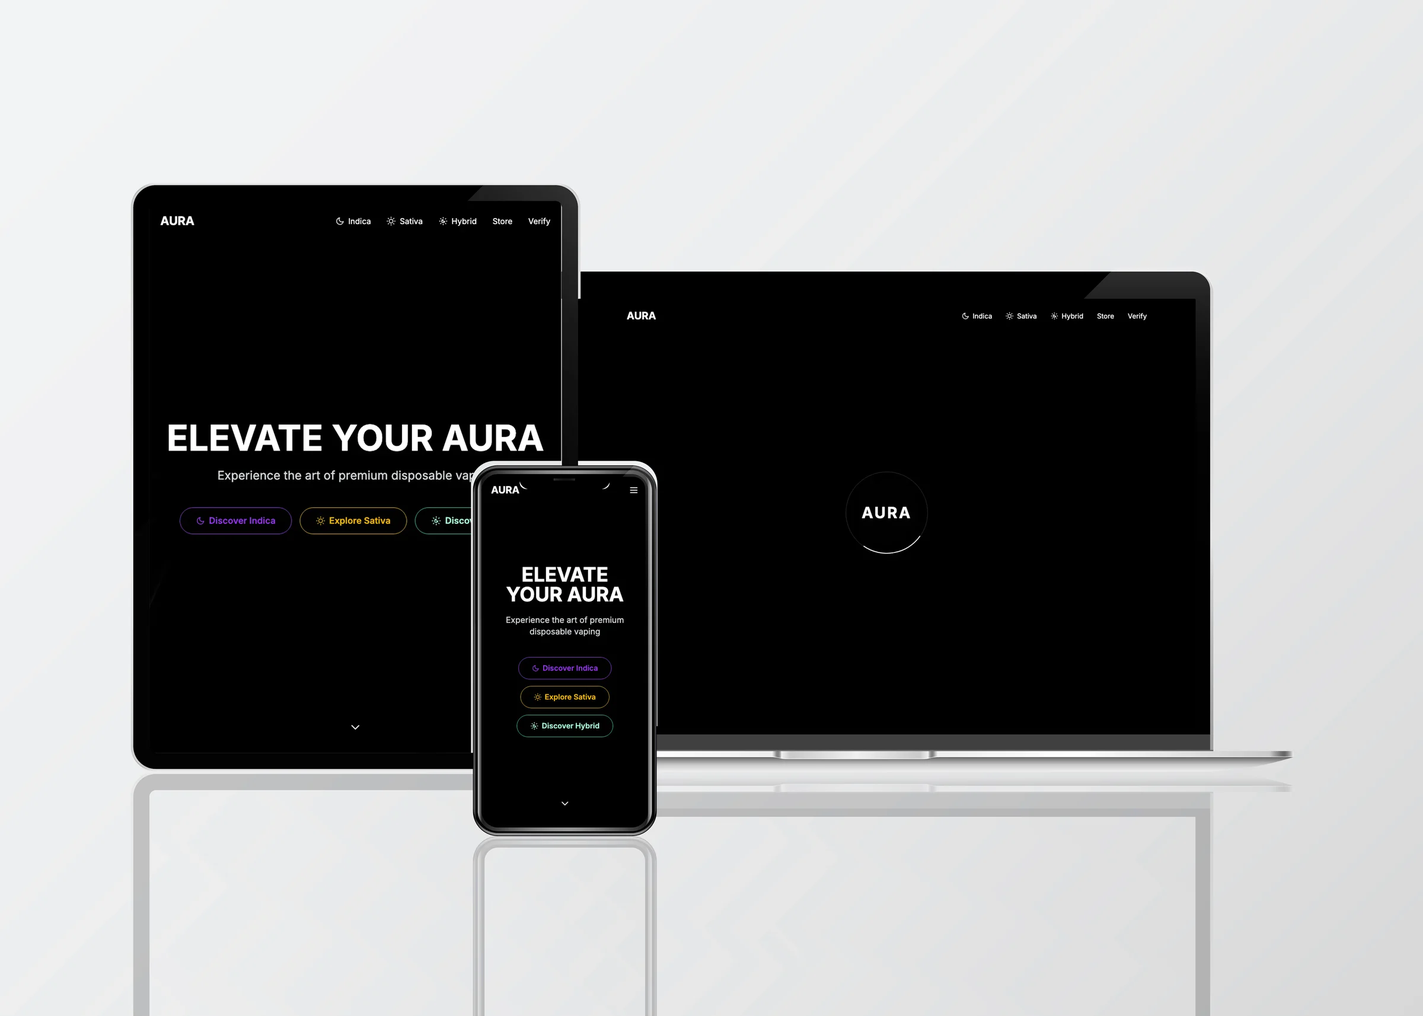
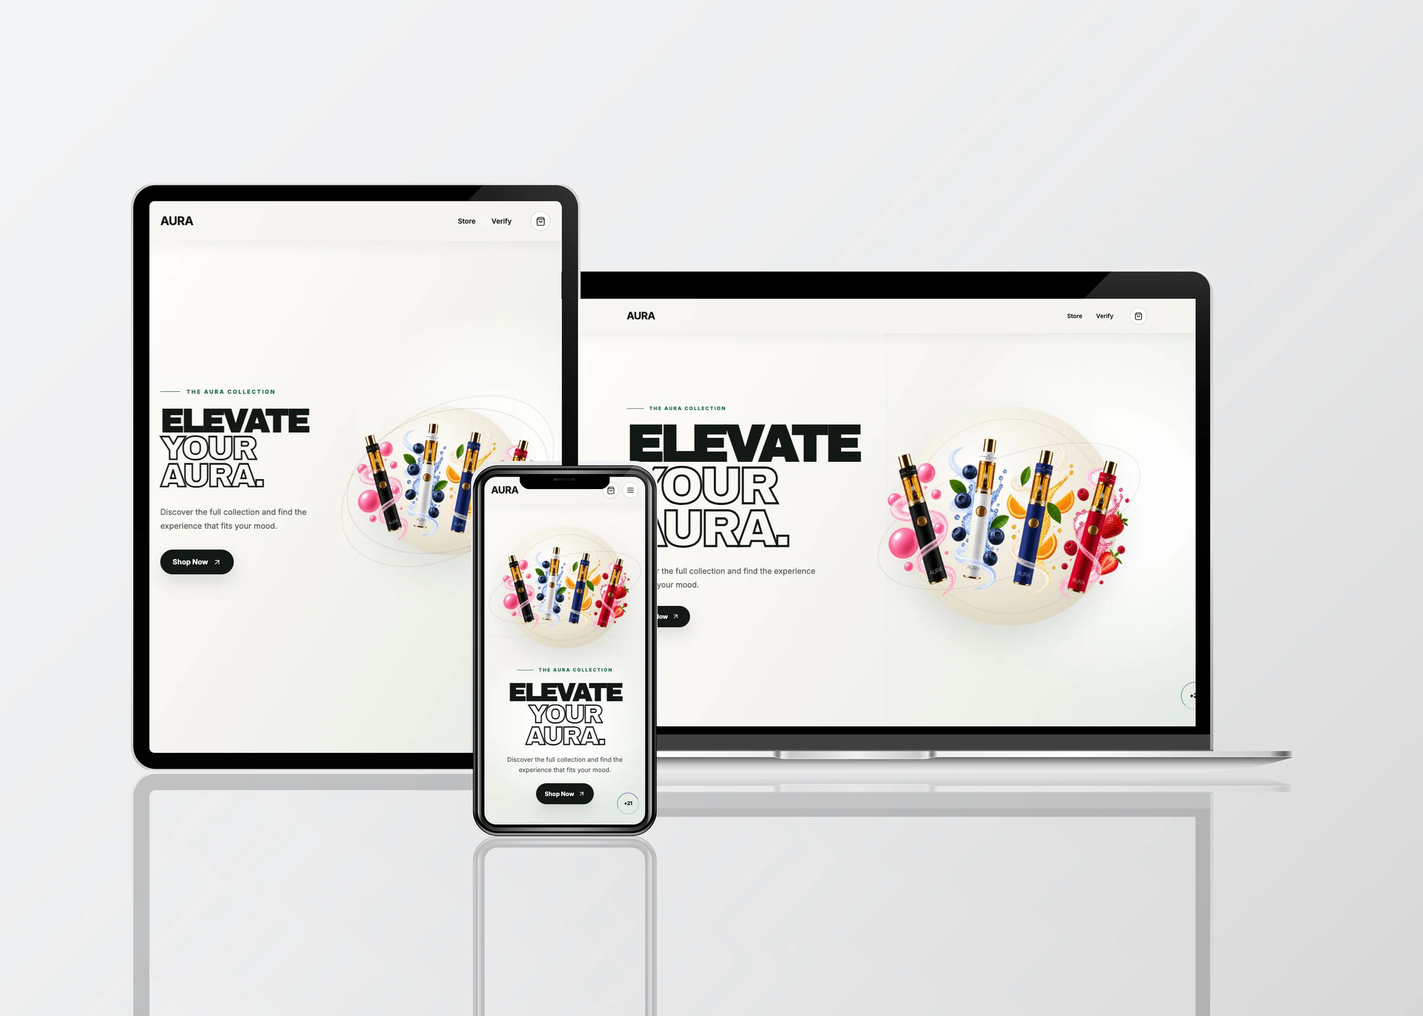
feat: refresh portfolio projects and Aura imagery

diff --git a/src/content/projects.ts b/src/content/projects.ts
@@ -29,6 +29,7 @@ export type Project = {
   domain: string;
   available: boolean;
   featured: boolean;
+  status?: "demo" | "preview";
   images?: ProjectImages;
   technologies: string[];
   copy: Record<Locale, LocalizedProjectCopy>;
@@ -176,6 +177,153 @@ export const projects: Project[] = [
           "Public discovery paths for search, care packages and patient support",
         ],
         sourceNote: "This project is documented and maintained in Future Media Services project records.",
+      },
+    },
+  },
+  {
+    slug: "ermetes",
+    url: "https://ermetes-design-review-production.up.railway.app",
+    domain: "ermetes-design-review-production.up.railway.app",
+    available: true,
+    featured: true,
+    status: "demo",
+    images: {
+      desktop: "/projects/ermetes-desktop.webp",
+      tablet: "/projects/ermetes-tablet.webp",
+      mobile: "/projects/ermetes-mobile.webp",
+      mockup: "/projects/mockups/ermetes-mockup.webp",
+    },
+    technologies: ["TypeScript", "Responsive UI", "CMS", "Service calendar"],
+    copy: {
+      fa: {
+        title: "Ermetes",
+        descriptor: "وبسایت خدماتی و پنلهای مدیریت عملیات",
+        summary: "طراحی و توسعه تجربه وب Ermetes برای معرفی خدمات، دریافت درخواست و مدیریت کارها؛ همراه با تقویم خدمات، پنل تعاونی و مدیریت پرسنل. نسخه قابلمشاهده، دموی بازبینی پروژه است.",
+        role: "طراحی تجربه کاربر و توسعه سایت و پنلها",
+        imageAlt: "سه نمای واکنشگرا از دموی وبسایت خدماتی Ermetes",
+        challenge: "معرفی خدمات و مسیر درخواست مشتری باید به تجربهای روشن تبدیل میشد، در حالی که تیم داخلی به ابزارهای منسجم برای کارها، تقویم و اطلاعات پرسنل نیاز داشت.",
+        approach: "سایت عمومی با مسیرهای معرفی خدمات و درخواست طراحی شد و پنلهای خدمات و تعاونی در همان پروژه توسعه یافتند. نسخه بازبینی روی یک دامنه دمو منتشر شده تا پیش از انتشار سایت اصلی بررسی شود.",
+        highlights: [
+          "وبسایت واکنشگرا برای معرفی خدمات و محدوده فعالیت",
+          "فرمهای دریافت درخواست و مسیر ارتباط با مجموعه",
+          "پنل مدیریت خدمات، کارها و تقویم",
+          "پنل تعاونی، پرسنل و مدارک، همراه با محتوای قابلویرایش CMS",
+        ],
+        sourceNote: "این پروژه با تأیید مالک در رکورد Future Media Services قرار گرفته است. تصاویر از دموی عمومی بازبینی ثبت شدهاند؛ این نسخه به معنی انتشار سایت اصلی یا پایان تمام اتصالها نیست.",
+      },
+      en: {
+        title: "Ermetes",
+        descriptor: "A service website and operations dashboards",
+        summary: "A web experience for presenting Ermetes services, receiving enquiries and managing work, with a service calendar and cooperative and personnel dashboards. The linked version is the project's review demo.",
+        role: "User experience design, website and dashboard development",
+        imageAlt: "Three responsive views of the Ermetes service website review demo",
+        challenge: "Service information and customer enquiries needed a clear public experience, while the internal team needed consistent tools for jobs, scheduling and personnel information.",
+        approach: "The public website brings together services and enquiry paths, with separate service and cooperative dashboards developed within the project. An independent review deployment supports feedback before the main website is published.",
+        highlights: [
+          "Responsive service presentation and coverage information",
+          "Enquiry forms and direct contact paths",
+          "Services, jobs and calendar management dashboard",
+          "Cooperative, personnel and document dashboard with editable CMS content",
+        ],
+        sourceNote: "This project is included in Future Media Services records with owner approval. Captures show the public review demo; this is not a claim that the main website or every integration has launched.",
+      },
+    },
+  },
+  {
+    slug: "nafis-teb",
+    url: "https://nafis-teb.ir",
+    domain: "nafis-teb.ir",
+    available: true,
+    featured: true,
+    status: "preview",
+    images: {
+      desktop: "/projects/nafis-teb-desktop.webp",
+      tablet: "/projects/nafis-teb-tablet.webp",
+      mobile: "/projects/nafis-teb-mobile.webp",
+      mockup: "/projects/mockups/nafis-teb-mockup.webp",
+    },
+    technologies: ["Next.js", "TypeScript", "PostgreSQL", "Drizzle", "ZarinPal"],
+    copy: {
+      fa: {
+        title: "نفیسطب",
+        descriptor: "فروشگاه فارسی تجهیزات و لوازم پزشکی",
+        summary: "طراحی و توسعه فروشگاه نفیسطب با کاتالوگ تجهیزات پزشکی، جستوجو و دستهبندی، سبد خرید و زیرساخت مدیریت محصول، سفارش و اتصال پرداخت.",
+        role: "طراحی و توسعه فروشگاه و زیرساخت مدیریت",
+        imageAlt: "سه نمای واکنشگرای فروشگاه فارسی تجهیزات پزشکی نفیسطب",
+        challenge: "خریدار باید بتواند تجهیزات پزشکی را در یک تجربه فارسی و قابلفهم پیدا و مقایسه کند؛ قیمت، موجودی و اطلاعات سفارش نیز باید در سمت سرور مدیریت شوند.",
+        approach: "فرانتاند راستبهچپ با Next.js ساخته شد و دادههای محصول و سفارش به PostgreSQL و Drizzle متصل شدند. مسیر خرید، مدیریت فروشگاه و لایه SEO فنی در یک ساختار مشترک توسعه یافتند.",
+        highlights: [
+          "کاتالوگ فارسی با جستوجو، دستهبندی و صفحات محصول",
+          "سبد خرید ماندگار و اعتبارسنجی قیمت و موجودی در سرور",
+          "زیرساخت مدیریت محصولات، سفارشها و اتصال زرینپال",
+          "طراحی واکنشگرا و داده ساختاریافته برای محصولات و کسبوکار",
+        ],
+        sourceNote: "این پروژه با تأیید مالک در رکورد Future Media Services قرار گرفته است. تصاویر از پیشنمایش محلی کد فروشگاه با دادههای نمونه ثبت شدهاند؛ قیمت و موجودی داخل تصاویر واقعی نیستند. دسترسی HTTPS به سایت هنگام ثبت تصاویر تأیید نشد.",
+      },
+      en: {
+        title: "Nafis Teb",
+        descriptor: "A Persian medical equipment storefront",
+        summary: "Design and development of the Nafis Teb storefront, with a medical equipment catalogue, search and categories, a persistent cart and infrastructure for product, order and payment management.",
+        role: "Storefront design, development and management infrastructure",
+        imageAlt: "Three responsive views of the Persian Nafis Teb medical equipment storefront",
+        challenge: "Customers needed a clear Persian experience for finding and comparing medical equipment, with product prices, stock and order information managed on the server.",
+        approach: "A right-to-left Next.js frontend connects product and order data to PostgreSQL through Drizzle. The purchase experience, management tools and technical SEO foundation were developed together.",
+        highlights: [
+          "Persian catalogue with search, categories and product pages",
+          "Persistent cart with server-side price and stock validation",
+          "Product and order management infrastructure with ZarinPal integration",
+          "Responsive design and product and business structured data",
+        ],
+        sourceNote: "This project is included in Future Media Services records with owner approval. Captures show a local preview of the storefront code with sample data, not actual prices or stock. HTTPS access to the public website could not be verified when the images were captured.",
+      },
+    },
+  },
+  {
+    slug: "karats-diamond",
+    url: "https://karatsdiamond.shop",
+    domain: "karatsdiamond.shop",
+    available: true,
+    featured: true,
+    status: "demo",
+    images: {
+      desktop: "/projects/karats-diamond-desktop.webp",
+      tablet: "/projects/karats-diamond-tablet.webp",
+      mobile: "/projects/karats-diamond-mobile.webp",
+      mockup: "/projects/mockups/karats-diamond-mockup.webp",
+    },
+    technologies: ["Next.js", "TypeScript", "Supabase", "Cloudflare Workers"],
+    copy: {
+      fa: {
+        title: "Karats Diamond",
+        descriptor: "فروشگاه مینیمال جواهرات و مدیریت کاتالوگ",
+        summary: "یک تجربه مینیمال برای معرفی جواهرات، بررسی مشخصات و انتخاب گزینههای محصول، همراه با پنل مدیریت کاتالوگ مبتنی بر Supabase. فروشگاه عمومی فعلاً از کاتالوگ دمو استفاده میکند.",
+        role: "طراحی و توسعه فروشگاه و پنل مدیریت محصول",
+        imageAlt: "سه نمای واکنشگرا از فروشگاه جواهرات Karats Diamond",
+        challenge: "نمایش جواهرات باید ساده و دقیق میبود و انتخاب اندازه و مشخصات را روشن میکرد؛ در کنار آن، مدیریت محصول به ذخیرهسازی واقعی و عملیات قابلبازیابی نیاز داشت.",
+        approach: "ویترین با Next.js و یک کاتالوگ دموی مشخص ساخته شد. پنل مدیریت جداگانه به Supabase متصل است و افزودن، ویرایش، آپلود تصویر و حذف قابلبازیابی محصولات را پوشش میدهد.",
+        highlights: [
+          "طراحی مینیمال و واکنشگرا برای معرفی جواهرات",
+          "صفحات محصول با انتخاب گزینهها و سبد خرید ماندگار",
+          "پنل مدیریت محصول با جستوجو، فیلتر و آپلود تصویر",
+          "ذخیرهسازی Supabase و حذف با امکان بازیابی از سطل زباله",
+        ],
+        sourceNote: "این پروژه با تأیید مالک در رکورد Future Media Services قرار گرفته است. فروشگاه عمومی کاتالوگ دمو دارد؛ دادههای پنل در Supabase ذخیره میشوند و پیشنمایش خرید، سفارش یا پرداخت واقعی ثبت نمیکند.",
+      },
+      en: {
+        title: "Karats Diamond",
+        descriptor: "Minimal jewelry commerce and catalogue management",
+        summary: "A minimal experience for discovering jewelry, reviewing specifications and selecting product options, with a Supabase-backed catalogue dashboard. The public storefront currently uses a demo catalogue.",
+        role: "Storefront design, development and product dashboard",
+        imageAlt: "Three responsive views of the Karats Diamond jewelry storefront",
+        challenge: "Jewelry presentation needed a restrained layout and clear size and specification choices, alongside persistent product management with recoverable operations.",
+        approach: "The Next.js storefront uses an explicit demo catalogue. A separate Supabase-backed dashboard supports product creation, editing, image uploads and recoverable deletion.",
+        highlights: [
+          "Minimal, responsive jewelry presentation",
+          "Product options and a persistent shopping bag",
+          "Product dashboard with search, filters and image uploads",
+          "Supabase persistence and recoverable deletion through Trash",
+        ],
+        sourceNote: "This project is included in Future Media Services records with owner approval. The public catalogue is a demo; dashboard data persists in Supabase, and the checkout preview does not place an order or take payment.",
       },
     },
   },

diff --git a/src/components/pages/ProjectDetailPage.tsx b/src/components/pages/ProjectDetailPage.tsx
@@ -8,6 +8,8 @@ const labels = {
   fa: {
     back: "بازگشت به نمونهکارها",
     live: "مشاهده وبسایت زنده",
+    demo: "مشاهده دموی پروژه",
+    website: "مشاهده وبسایت",
     unavailable: "نسخه زنده فعلاً در دسترس نیست",
     overview: "معرفی پروژه",
     challenge: "مسئله",
@@ -16,6 +18,8 @@ const labels = {
     role: "نقش پروژه",
     status: "وضعیت",
     statusLive: "فعال",
+    statusDemo: "دموی آنلاین",
+    statusPreview: "پیشنمایش طراحی",
     statusArchive: "آرشیوی / خارج از دسترس",
     focus: "فناوری / تمرکز",
     domain: "دامنه",
@@ -26,6 +30,8 @@ const labels = {
   en: {
     back: "Back to all work",
     live: "Visit live website",
+    demo: "View project demo",
+    website: "Visit website",
     unavailable: "The live website is currently unavailable",
     overview: "Project overview",
     challenge: "The challenge",
@@ -34,6 +40,8 @@ const labels = {
     role: "Project role",
     status: "Status",
     statusLive: "Live",
+    statusDemo: "Live demo",
+    statusPreview: "Design preview",
     statusArchive: "Archived / unavailable",
     focus: "Technology / focus",
     domain: "Domain",
@@ -49,6 +57,16 @@ export function ProjectDetailPage({ project, locale }: { project: Project; local
   const projectIndex = projects.findIndex((item) => item.slug === project.slug);
   const nextProject = projects[(projectIndex + 1) % projects.length];
   const nextContent = nextProject.copy[locale];
+  const actionLabel = project.status === "demo"
+    ? text.demo
+    : project.status === "preview" ? text.website : text.live;
+  const statusKey = project.available ? project.status ?? "live" : "archive";
+  const statusLabel = {
+    live: text.statusLive,
+    demo: text.statusDemo,
+    preview: text.statusPreview,
+    archive: text.statusArchive,
+  }[statusKey];
 
   return (
     <article className="project-detail">
@@ -67,7 +85,7 @@ export function ProjectDetailPage({ project, locale }: { project: Project; local
           <p>{content.summary}</p>
           {project.available ? (
             <a className="button" href={project.url} target="_blank" rel="noreferrer">
-              {text.live}
+              {actionLabel}
               <ArrowIcon />
             </a>
           ) : (
@@ -95,7 +113,7 @@ export function ProjectDetailPage({ project, locale }: { project: Project; local
             </div>
             <div>
               <dt>{text.status}</dt>
-              <dd>{project.available ? text.statusLive : text.statusArchive}</dd>
+              <dd>{statusLabel}</dd>
             </div>
             <div>
               <dt>{text.focus}</dt>

diff --git a/tests/e2e/site.spec.ts b/tests/e2e/site.spec.ts
@@ -185,13 +185,13 @@ test("the Persian hero contains only the approved text instead of visual media",
   await expect(page.locator(".hero a").last()).toHaveAttribute("href", "#services");
 });
 
-test("portfolio cards are bilingual image previews linked directly to live websites", async ({ page }) => {
+test("portfolio cards are bilingual image previews linked directly to project websites", async ({ page }) => {
   await page.goto("/en/work");
   await expect(page.getByRole("link", { name: "Visit website: OFOQ" })).toBeVisible();
   await expect(page.getByRole("link", { name: "View project details" }).first()).toHaveAttribute("href", "/en/work/ofoq");
   await expect(page.getByRole("link", { name: "Visit website: Aura Disposable" })).toBeVisible();
   await expect(page.getByRole("link", { name: "Visit website: DigiMoragheb" })).toBeVisible();
-  await expect(page.locator(".project-card__media")).toHaveCount(7);
+  await expect(page.locator(".project-card__media")).toHaveCount(10);
   await expect(page.locator(".project-card__media").first()).toHaveAttribute("href", "https://ofoq-web.sobhan-ashineh1.workers.dev");
   await expect(page.locator(".project-card__media").first()).toHaveAttribute("target", "_blank");
   await expect(page.locator(".project-card img").first()).toHaveJSProperty("complete", true);
@@ -258,6 +258,9 @@ test("every portfolio entry has a Persian and English detail page", async ({ req
     "ofoq",
     "aura-disposable",
     "digimoragheb",
+    "ermetes",
+    "nafis-teb",
+    "karats-diamond",
     "kashiland",
     "mehrshad-store",
     "paytakhte-ketab",

diff --git a/src/content/projects.test.ts b/src/content/projects.test.ts
@@ -10,7 +10,7 @@ import {
 } from "./projects";
 
 describe("portfolio content", () => {
-  it("keeps every featured project bilingual and linked to a live URL", () => {
+  it("keeps every featured project bilingual and linked to a project URL", () => {
     for (const project of featuredProjects) {
       expect(project.url).toMatch(/^https:\/\//);
       expect(project.images?.desktop).toMatch(/-desktop\.webp$/);
@@ -57,8 +57,8 @@ describe("portfolio content", () => {
     }
   });
 
-  it("only puts live projects with verified imagery in the direct-link card grid", () => {
-    expect(portfolioProjects).toHaveLength(7);
+  it("only puts project destinations with imagery in the direct-link card grid", () => {
+    expect(portfolioProjects).toHaveLength(10);
     for (const project of portfolioProjects) {
       expect(project.available).toBe(true);
       expect(project.images?.desktop).toBeTruthy();

diff --git a/docs/content-inventory.md b/docs/content-inventory.md
@@ -2,6 +2,8 @@
 
 Updated: 2026-07-30
 
+Portfolio records and captures refreshed: 2026-10-13.
+
 | Item | Status | Current handling | Required before launch |
 | --- | --- | --- | --- |
 | Brand name | Verified | Future Media Services / FMS | Confirm registered spelling |
@@ -11,10 +13,10 @@ Updated: 2026-07-30
 | Service groups | Owner-directed | Local website design/development and Instagram content management routes | Owner approval |
 | Website pricing | Owner-requested proposal | Personal 45M, corporate 85M and commerce 165M toman starting scopes | Owner approval before production promotion |
 | Instagram pricing | Source-verified on 2026-07-20 | Local Economic 8.5M, Silver 11.7M and Gold 16.4M toman monthly plans with source-matched quantities and inclusions | Re-check the supplied pricing source before production promotion |
-| Portfolio projects | Owner-verified | Three detailed builds and four additional live projects are maintained from the owner-provided CV and Future Media Services records; one unavailable archive project remains documented | Owner approval for any added performance result or attribution |
-| Portfolio screenshots | Captured from live public sites | Local desktop (1600×1000), tablet (834×1112) and mobile (390×844) WebP captures for seven reachable projects; Mehrshad Store uses a transparent archive state | Refresh when a live project changes materially |
-| Portfolio detail pages | Published with Future Media Services records | Eight bilingual case-study routes cover overview, challenge, approach, experience highlights and the verified role or explicit archive limitation | Owner approval for any added performance result or attribution |
-| Portfolio index cards | Published from verified screenshots | Seven responsive three-device mockup cards link directly to the available live websites; the offline archive entry is intentionally omitted | Replace screenshots when a live site changes materially |
+| Portfolio projects | Owner-selected | Ermetes, Nafis Teb and Karats Diamond join the existing records; six featured projects and four additional projects have imagery, with one unavailable archive entry | Owner approval for any added performance result or attribution |
+| Portfolio screenshots | Public captures and an identified local preview | Three-device captures for the three additions and the redesigned Aura, using desktop (1600×1000), tablet (834×1112) and mobile (390×844) CSS viewports. Nafis Teb uses the current committed code in local demo mode because public HTTPS was unreachable; sample prices and stock are disclosed. Existing captures for other projects are preserved | Refresh Nafis Teb from the public site when reachable and refresh other projects after material redesigns |
+| Portfolio detail pages | Maintained with Future Media Services records | Eleven bilingual case-study records cover overview, challenge, approach, experience highlights and role; Ermetes and Karats are labelled as demos, Nafis Teb as a design preview, and Mehrshad Store as an archive | Owner approval for any added performance result or attribution |
+| Portfolio index cards | Maintained in the existing template | Ten responsive three-device mockup cards link to project destinations, with six featured on the homepage; Diamonds Flower is excluded at the owner's request | Replace screenshots after material redesigns |
 | Team members | Missing | Clearly labelled pending state | Approved names, roles and portraits |
 | Phone | Owner-provided | Stored only as the call-button target; not displayed in page copy | Reconfirm before production promotion |
 | Email and address | Missing | Not displayed | Verified details if they are ever added |
